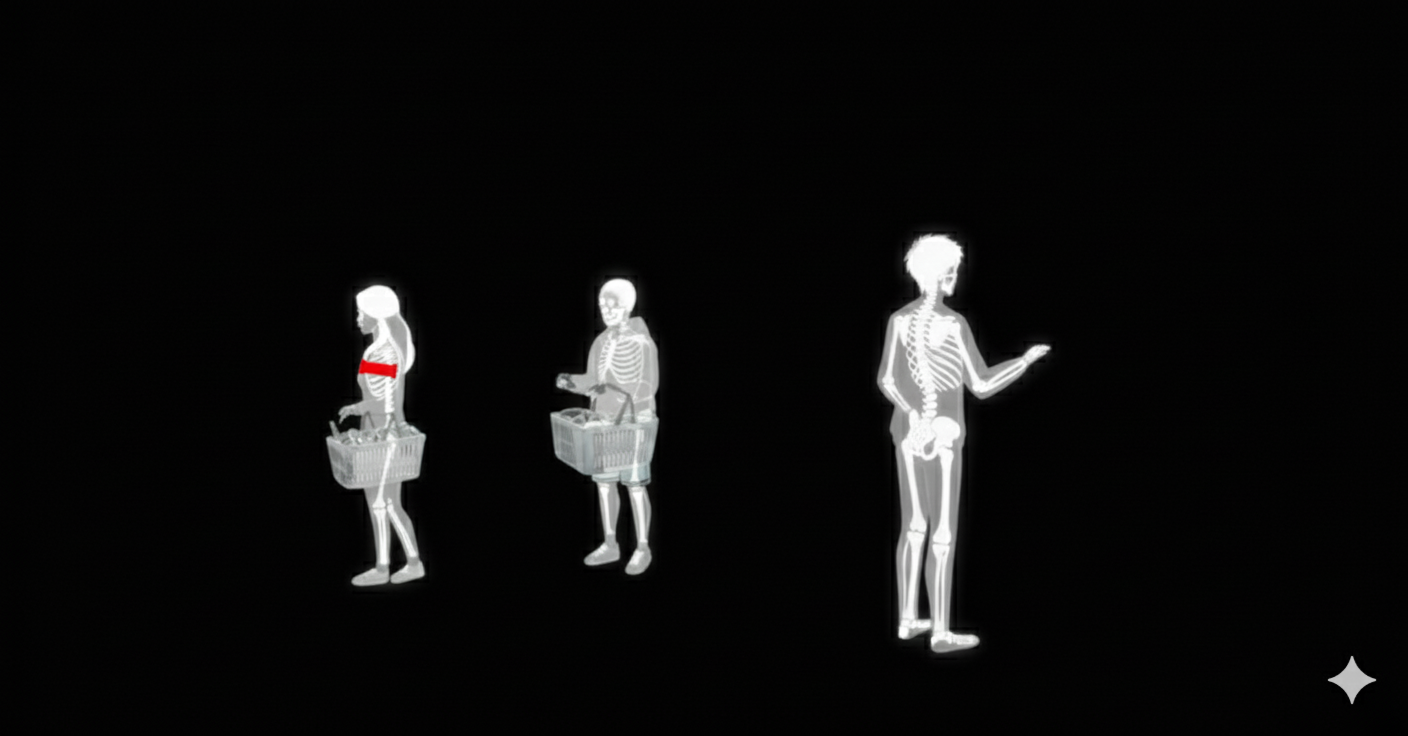
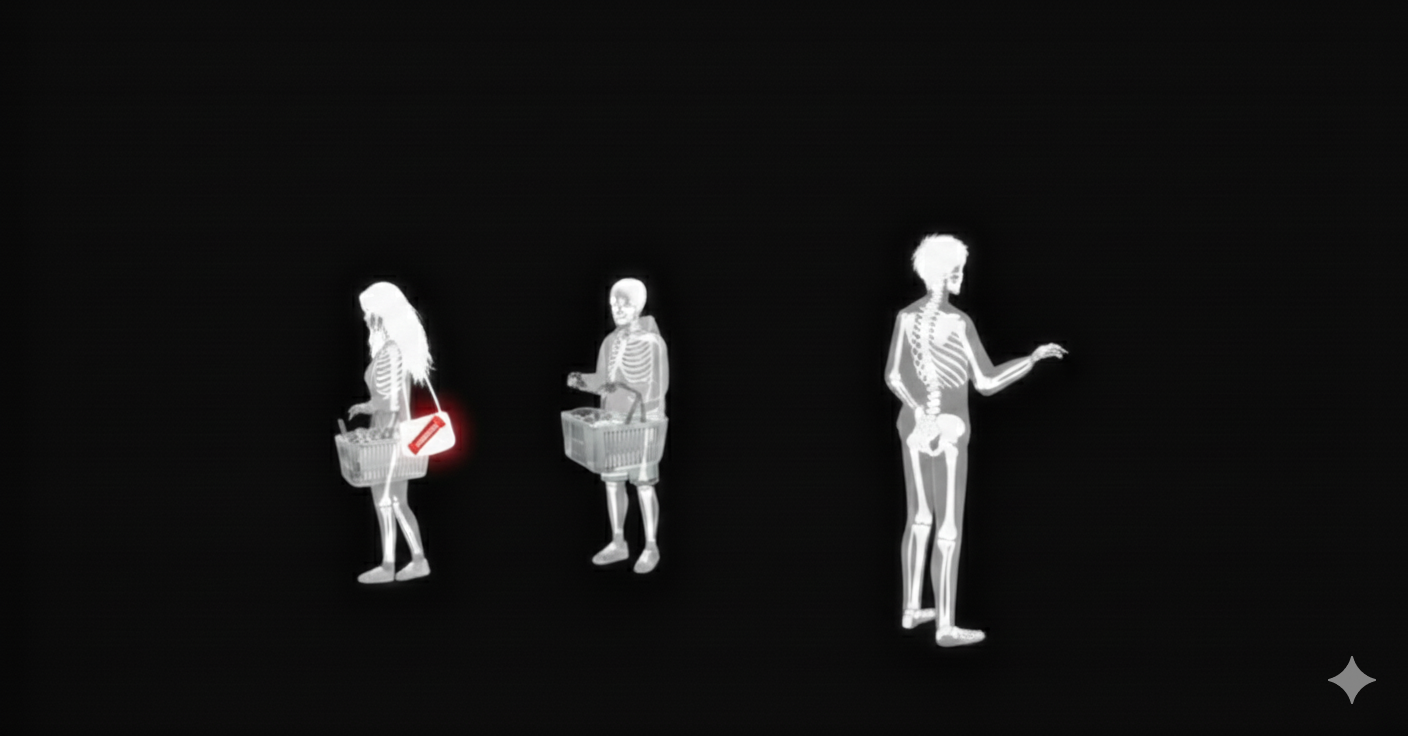
re did the images in the ai memory to match the storyline of stealing in the purse

diff --git a/src/main/java/nz/ac/auckland/se206/controllers/HumanFlashback.java b/src/main/java/nz/ac/auckland/se206/controllers/HumanFlashback.java
@@ -1,24 +1,28 @@
 package nz.ac.auckland.se206.controllers;
 
-import java.util.ArrayList;
 import java.util.List;
+
 import javafx.fxml.FXML;
-import javafx.scene.Parent;
 import javafx.scene.control.Button;
 import javafx.scene.control.Label;
 import javafx.scene.image.ImageView;
-import javafx.stage.Stage;
-import nz.ac.auckland.se206.utils.SceneManager;
 import nz.ac.auckland.se206.controllers.flashback.FlashbackController;
+import nz.ac.auckland.se206.utils.SceneManager;
 
 public class HumanFlashback extends FlashbackController {
-  @FXML private ImageView backgroundImage;
-  @FXML private Button nextBtn;
-  @FXML private Label timerLabel;
-  @FXML private Button memoryButton;
+  @FXML
+  private ImageView backgroundImage;
+  @FXML
+  private Button nextBtn;
+  @FXML
+  private Label timerLabel;
+  @FXML
+  private Button memoryButton;
 
-  @FXML private Label conversationRoleLabel;
-  @FXML private Label conversationTextLabel;
+  @FXML
+  private Label conversationRoleLabel;
+  @FXML
+  private Label conversationTextLabel;
 
   private List<String> imagePaths;
   private List<String> conversationText;
@@ -39,7 +43,8 @@ public class HumanFlashback extends FlashbackController {
 
   @Override
   protected void setupText() {
-    addText("But when I was about to leave the store, the police suddenly showed up to arrest me, and I had no idea why.");
+    addText(
+        "But when I was about to leave the store, the police suddenly showed up to arrest me, and I had no idea why.");
     addText("After I finished getting everything I needed, I went to purchase it all at the self-checkout.");
     addText("I was just shopping at the supermarket normally, with nothing out of the usual.");
   }

diff --git a/src/main/java/nz/ac/auckland/se206/controllers/AiMemory.java b/src/main/java/nz/ac/auckland/se206/controllers/AiMemory.java
@@ -1,6 +1,7 @@
 package nz.ac.auckland.se206.controllers;
 
 import java.io.IOException;
+
 import javafx.fxml.FXML;
 import javafx.fxml.FXMLLoader;
 import javafx.scene.Cursor;
@@ -14,19 +15,28 @@ import javafx.scene.layout.Pane;
 import javafx.scene.shape.Circle;
 import javafx.scene.shape.Rectangle;
 import javafx.stage.Stage;
+import nz.ac.auckland.se206.App;
 import nz.ac.auckland.se206.controllers.memory.MemoryController;
 import nz.ac.auckland.se206.utils.SceneManager;
 
 public class AiMemory extends MemoryController {
 
-  @FXML private Button roomBtn;
-  @FXML private Button chatBtn;
-  @FXML private Label timerLabel;
-  @FXML private Pane chatPanel;
-  @FXML private Pane rootPane;
-  @FXML private ImageView mainImageView;
-  @FXML private ImageView xrayImageView;
-  @FXML private Rectangle overlayRectangle;
+  @FXML
+  private Button roomBtn;
+  @FXML
+  private Button chatBtn;
+  @FXML
+  private Label timerLabel;
+  @FXML
+  private Pane chatPanel;
+  @FXML
+  private Pane rootPane;
+  @FXML
+  private ImageView mainImageView;
+  @FXML
+  private ImageView xrayImageView;
+  @FXML
+  private Rectangle overlayRectangle;
 
   private TimerService timerService;
   private Circle clipCircle;
@@ -41,6 +51,7 @@ public class AiMemory extends MemoryController {
   @Override
   @FXML
   protected void initialize() {
+    App.timer.addConsumer(getTimerConsumer());
     super.initialize();
     setupXrayEffect();
   }

diff --git a/src/main/java/nz/ac/auckland/se206/controllers/AiFlashback.java b/src/main/java/nz/ac/auckland/se206/controllers/AiFlashback.java
@@ -1,26 +1,26 @@
 package nz.ac.auckland.se206.controllers;
 
-import java.util.ArrayList;
-import java.util.List;
-
 import javafx.fxml.FXML;
-import javafx.scene.Parent;
 import javafx.scene.control.Button;
 import javafx.scene.control.Label;
 import javafx.scene.image.ImageView;
-import javafx.stage.Stage;
 import nz.ac.auckland.se206.controllers.flashback.FlashbackController;
 import nz.ac.auckland.se206.utils.SceneManager;
 
 public class AiFlashback extends FlashbackController {
-  @FXML private ImageView backgroundImage;
-  @FXML private Button nextBtn;
-  @FXML private Label timerLabel;
-  @FXML private Button memoryButton;
+  @FXML
+  private ImageView backgroundImage;
+  @FXML
+  private Button nextBtn;
+  @FXML
+  private Label timerLabel;
+  @FXML
+  private Button memoryButton;
 
-  @FXML private Label conversationRoleLabel;
-  @FXML private Label conversationTextLabel;
-
+  @FXML
+  private Label conversationRoleLabel;
+  @FXML
+  private Label conversationTextLabel;
 
   @FXML
   protected void initialize() {
